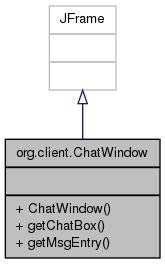
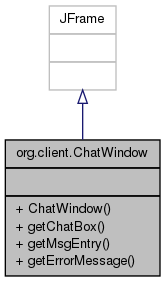
Automated documentation build for changeset e619a2696e7249c70485f421835836c3f858ba7f.

diff --git a/classorg_1_1client_1_1_message_receiver.html b/classorg_1_1client_1_1_message_receiver.html
@@ -122,20 +122,21 @@ Public Member Functions</h2></td></tr>
 <tr><td class="memItemLeft" align="right" valign="top">void&#160;</td><td class="memItemRight" valign="bottom"><a class="el" href="classorg_1_1client_1_1_message_receiver.html#ac5981757287e4f46c08ba8de8dce5e9e">stopRunning</a> ()</td></tr>
 <tr><td colspan="2"><h2><a name="pac-methods"></a>
 Package Functions</h2></td></tr>
-<tr><td class="memItemLeft" align="right" valign="top">&#160;</td><td class="memItemRight" valign="bottom"><a class="el" href="classorg_1_1client_1_1_message_receiver.html#a293bf969c45648c45354259c7284666a">MessageReceiver</a> (BufferedReader insock, JTextArea jTextArea)</td></tr>
+<tr><td class="memItemLeft" align="right" valign="top">&#160;</td><td class="memItemRight" valign="bottom"><a class="el" href="classorg_1_1client_1_1_message_receiver.html#aa25519514a1ef79e252de8473a895260">MessageReceiver</a> (BufferedReader insock, JTextArea jTextArea, JLabel jLabel)</td></tr>
 <tr><td colspan="2"><h2><a name="pac-attribs"></a>
 Package Attributes</h2></td></tr>
 <tr><td class="memItemLeft" align="right" valign="top">JTextArea&#160;</td><td class="memItemRight" valign="bottom"><a class="el" href="classorg_1_1client_1_1_message_receiver.html#ab7fa029bb1ee0d531f1e247d5e9ae4da">chatTxtField</a></td></tr>
+<tr><td class="memItemLeft" align="right" valign="top">JLabel&#160;</td><td class="memItemRight" valign="bottom"><a class="el" href="classorg_1_1client_1_1_message_receiver.html#af809bca35f4dbc3868bf69dc6f00c990">errLabel</a></td></tr>
 </table>
 <hr/><a name="details" id="details"></a><h2>Detailed Description</h2>
 <div class="textblock"><p>Provides logic to continuously receive messages from the server and provide notification to the user. Done in another thread as to not disrupt the user's experience. </p>
 </div><hr/><h2>Constructor &amp; Destructor Documentation</h2>
-<a class="anchor" id="a293bf969c45648c45354259c7284666a"></a><!-- doxytag: member="org::client::MessageReceiver::MessageReceiver" ref="a293bf969c45648c45354259c7284666a" args="(BufferedReader insock, JTextArea jTextArea)" -->
+<a class="anchor" id="aa25519514a1ef79e252de8473a895260"></a><!-- doxytag: member="org::client::MessageReceiver::MessageReceiver" ref="aa25519514a1ef79e252de8473a895260" args="(BufferedReader insock, JTextArea jTextArea, JLabel jLabel)" -->
 <div class="memitem">
 <div class="memproto">
       <table class="memname">
         <tr>
-          <td class="memname"><a class="el" href="classorg_1_1client_1_1_message_receiver.html#a293bf969c45648c45354259c7284666a">org.client.MessageReceiver.MessageReceiver</a> </td>
+          <td class="memname"><a class="el" href="classorg_1_1client_1_1_message_receiver.html#aa25519514a1ef79e252de8473a895260">org.client.MessageReceiver.MessageReceiver</a> </td>
           <td>(</td>
           <td class="paramtype">BufferedReader&#160;</td>
           <td class="paramname"><em>insock</em>, </td>
@@ -144,7 +145,13 @@ Package Attributes</h2></td></tr>
           <td class="paramkey"></td>
           <td></td>
           <td class="paramtype">JTextArea&#160;</td>
-          <td class="paramname"><em>jTextArea</em>&#160;</td>
+          <td class="paramname"><em>jTextArea</em>, </td>
+        </tr>
+        <tr>
+          <td class="paramkey"></td>
+          <td></td>
+          <td class="paramtype">JLabel&#160;</td>
+          <td class="paramname"><em>jLabel</em>&#160;</td>
         </tr>
         <tr>
           <td></td>
@@ -200,6 +207,19 @@ Package Attributes</h2></td></tr>
       <table class="memname">
         <tr>
           <td class="memname">JTextArea <a class="el" href="classorg_1_1client_1_1_message_receiver.html#ab7fa029bb1ee0d531f1e247d5e9ae4da">org.client.MessageReceiver.chatTxtField</a><code> [package]</code></td>
+        </tr>
+      </table>
+</div>
+<div class="memdoc">
+
+</div>
+</div>
+<a class="anchor" id="af809bca35f4dbc3868bf69dc6f00c990"></a><!-- doxytag: member="org::client::MessageReceiver::errLabel" ref="af809bca35f4dbc3868bf69dc6f00c990" args="" -->
+<div class="memitem">
+<div class="memproto">
+      <table class="memname">
+        <tr>
+          <td class="memname">JLabel <a class="el" href="classorg_1_1client_1_1_message_receiver.html#af809bca35f4dbc3868bf69dc6f00c990">org.client.MessageReceiver.errLabel</a><code> [package]</code></td>
         </tr>
       </table>
 </div>

diff --git a/classorg_1_1client_1_1_chat_window.html b/classorg_1_1client_1_1_chat_window.html
@@ -126,6 +126,7 @@ Public Member Functions</h2></td></tr>
 <tr><td class="memItemLeft" align="right" valign="top">&#160;</td><td class="memItemRight" valign="bottom"><a class="el" href="classorg_1_1client_1_1_chat_window.html#a3cef74248715caf594b231ba3e290358">ChatWindow</a> (final <a class="el" href="classorg_1_1client_1_1_client_app.html">ClientApp</a> clientApp)</td></tr>
 <tr><td class="memItemLeft" align="right" valign="top">JTextArea&#160;</td><td class="memItemRight" valign="bottom"><a class="el" href="classorg_1_1client_1_1_chat_window.html#ad0c14ed6f1bd7452c76981dc5f697590">getChatBox</a> ()</td></tr>
 <tr><td class="memItemLeft" align="right" valign="top">JTextField&#160;</td><td class="memItemRight" valign="bottom"><a class="el" href="classorg_1_1client_1_1_chat_window.html#a1d90251fb72141ff28fba0c8230048c9">getMsgEntry</a> ()</td></tr>
+<tr><td class="memItemLeft" align="right" valign="top">JLabel&#160;</td><td class="memItemRight" valign="bottom"><a class="el" href="classorg_1_1client_1_1_chat_window.html#a8887a6c39414e5b471864b3f02800a4b">getErrorMessage</a> ()</td></tr>
 </table>
 <hr/><h2>Constructor &amp; Destructor Documentation</h2>
 <a class="anchor" id="a3cef74248715caf594b231ba3e290358"></a><!-- doxytag: member="org::client::ChatWindow::ChatWindow" ref="a3cef74248715caf594b231ba3e290358" args="(final ClientApp clientApp)" -->
@@ -167,6 +168,24 @@ Public Member Functions</h2></td></tr>
 </div>
 <div class="memdoc">
 <p>Get reference to the chat window box.</p>
+<dl class="return"><dt><b>Returns:</b></dt><dd></dd></dl>
+
+</div>
+</div>
+<a class="anchor" id="a8887a6c39414e5b471864b3f02800a4b"></a><!-- doxytag: member="org::client::ChatWindow::getErrorMessage" ref="a8887a6c39414e5b471864b3f02800a4b" args="()" -->
+<div class="memitem">
+<div class="memproto">
+      <table class="memname">
+        <tr>
+          <td class="memname">JLabel <a class="el" href="classorg_1_1client_1_1_chat_window.html#a8887a6c39414e5b471864b3f02800a4b">org.client.ChatWindow.getErrorMessage</a> </td>
+          <td>(</td>
+          <td class="paramname"></td><td>)</td>
+          <td><code> [inline]</code></td>
+        </tr>
+      </table>
+</div>
+<div class="memdoc">
+<p>Get reference to the error message label.</p>
 <dl class="return"><dt><b>Returns:</b></dt><dd></dd></dl>
 
 </div>

diff --git a/search/search.js b/search/search.js
@@ -7,12 +7,12 @@
 
 var indexSectionsWithContent =
 {
-  0: "0000000000000000000000000000000000000000000000000000000000000000000000000000000000000000000000000101001110001101001111000000000000000000000000000000000000000000000000000000000000000000000000000000000000000000000000000000000000000000000000000000000000000000",
+  0: "0000000000000000000000000000000000000000000000000000000000000000000000000000000000000000000000000101011110001101001111000000000000000000000000000000000000000000000000000000000000000000000000000000000000000000000000000000000000000000000000000000000000000000",
   1: "0000000000000000000000000000000000000000000000000000000000000000000000000000000000000000000000000001000000001100000111000000000000000000000000000000000000000000000000000000000000000000000000000000000000000000000000000000000000000000000000000000000000000000",
   2: "0000000000000000000000000000000000000000000000000000000000000000000000000000000000000000000000000000000000000001000000000000000000000000000000000000000000000000000000000000000000000000000000000000000000000000000000000000000000000000000000000000000000000000",
   3: "0000000000000000000000000000000000000000000000000000000000000000000000000000000000000000000000000001000000001100000111000000000000000000000000000000000000000000000000000000000000000000000000000000000000000000000000000000000000000000000000000000000000000000",
   4: "0000000000000000000000000000000000000000000000000000000000000000000000000000000000000000000000000101000110001100001110000000000000000000000000000000000000000000000000000000000000000000000000000000000000000000000000000000000000000000000000000000000000000000",
-  5: "0000000000000000000000000000000000000000000000000000000000000000000000000000000000000000000000000001001000000000001100000000000000000000000000000000000000000000000000000000000000000000000000000000000000000000000000000000000000000000000000000000000000000000"
+  5: "0000000000000000000000000000000000000000000000000000000000000000000000000000000000000000000000000001011000000000001100000000000000000000000000000000000000000000000000000000000000000000000000000000000000000000000000000000000000000000000000000000000000000000"
 };
 
 var indexSectionNames =

diff --git a/classorg_1_1client_1_1_message_receiver-members.html b/classorg_1_1client_1_1_message_receiver-members.html
@@ -90,7 +90,8 @@ var searchBox = new SearchBox("searchBox", "search",false,'Search');
 <div class="contents">
 This is the complete list of members for <a class="el" href="classorg_1_1client_1_1_message_receiver.html">org.client.MessageReceiver</a>, including all inherited members.<table>
   <tr class="memlist"><td><a class="el" href="classorg_1_1client_1_1_message_receiver.html#ab7fa029bb1ee0d531f1e247d5e9ae4da">chatTxtField</a></td><td><a class="el" href="classorg_1_1client_1_1_message_receiver.html">org.client.MessageReceiver</a></td><td><code> [package]</code></td></tr>
-  <tr class="memlist"><td><a class="el" href="classorg_1_1client_1_1_message_receiver.html#a293bf969c45648c45354259c7284666a">MessageReceiver</a>(BufferedReader insock, JTextArea jTextArea)</td><td><a class="el" href="classorg_1_1client_1_1_message_receiver.html">org.client.MessageReceiver</a></td><td><code> [inline, package]</code></td></tr>
+  <tr class="memlist"><td><a class="el" href="classorg_1_1client_1_1_message_receiver.html#af809bca35f4dbc3868bf69dc6f00c990">errLabel</a></td><td><a class="el" href="classorg_1_1client_1_1_message_receiver.html">org.client.MessageReceiver</a></td><td><code> [package]</code></td></tr>
+  <tr class="memlist"><td><a class="el" href="classorg_1_1client_1_1_message_receiver.html#aa25519514a1ef79e252de8473a895260">MessageReceiver</a>(BufferedReader insock, JTextArea jTextArea, JLabel jLabel)</td><td><a class="el" href="classorg_1_1client_1_1_message_receiver.html">org.client.MessageReceiver</a></td><td><code> [inline, package]</code></td></tr>
   <tr class="memlist"><td><a class="el" href="classorg_1_1client_1_1_message_receiver.html#a55316106b6dbc2bcda190bffa622b27e">run</a>()</td><td><a class="el" href="classorg_1_1client_1_1_message_receiver.html">org.client.MessageReceiver</a></td><td><code> [inline]</code></td></tr>
   <tr class="memlist"><td><a class="el" href="classorg_1_1client_1_1_message_receiver.html#ac5981757287e4f46c08ba8de8dce5e9e">stopRunning</a>()</td><td><a class="el" href="classorg_1_1client_1_1_message_receiver.html">org.client.MessageReceiver</a></td><td><code> [inline]</code></td></tr>
 </table></div><!-- contents -->

diff --git a/functions.html b/functions.html
@@ -86,6 +86,7 @@ var searchBox = new SearchBox("searchBox", "search",false,'Search');
     <ul class="tablist">
       <li><a href="#index_a"><span>a</span></a></li>
       <li><a href="#index_c"><span>c</span></a></li>
+      <li><a href="#index_e"><span>e</span></a></li>
       <li><a href="#index_f"><span>f</span></a></li>
       <li><a href="#index_g"><span>g</span></a></li>
       <li><a href="#index_h"><span>h</span></a></li>
@@ -126,6 +127,13 @@ var searchBox = new SearchBox("searchBox", "search",false,'Search');
 </ul>
 
 
+<h3><a class="anchor" id="index_e"></a>- e -</h3><ul>
+<li>errLabel
+: <a class="el" href="classorg_1_1client_1_1_message_receiver.html#af809bca35f4dbc3868bf69dc6f00c990">org.client.MessageReceiver</a>
+</li>
+</ul>
+
+
 <h3><a class="anchor" id="index_f"></a>- f -</h3><ul>
 <li>FAIL_INTERNAL
 : <a class="el" href="classorg_1_1common_1_1_utils.html#a7d2ada351134eda025b6c506cc738410">org.common.Utils</a>
@@ -151,6 +159,9 @@ var searchBox = new SearchBox("searchBox", "search",false,'Search');
 </li>
 <li>getContact()
 : <a class="el" href="classorg_1_1server_1_1_contacts.html#a9b412016c6ffbb60995b6498fff89de4">org.server.Contacts</a>
+</li>
+<li>getErrorMessage()
+: <a class="el" href="classorg_1_1client_1_1_chat_window.html#a8887a6c39414e5b471864b3f02800a4b">org.client.ChatWindow</a>
 </li>
 <li>getInstance()
 : <a class="el" href="classorg_1_1server_1_1_contacts.html#a6767632665a32a7ae568b4dedbd0f2d1">org.server.Contacts</a>
@@ -193,7 +204,7 @@ var searchBox = new SearchBox("searchBox", "search",false,'Search');
 , <a class="el" href="classorg_1_1client_1_1_client_app.html#a2e36128879f05a907233e30c848b1200">org.client.ClientApp</a>
 </li>
 <li>MessageReceiver()
-: <a class="el" href="classorg_1_1client_1_1_message_receiver.html#a293bf969c45648c45354259c7284666a">org.client.MessageReceiver</a>
+: <a class="el" href="classorg_1_1client_1_1_message_receiver.html#aa25519514a1ef79e252de8473a895260">org.client.MessageReceiver</a>
 </li>
 </ul>
 

diff --git a/classorg_1_1client_1_1_chat_window-members.html b/classorg_1_1client_1_1_chat_window-members.html
@@ -91,6 +91,7 @@ var searchBox = new SearchBox("searchBox", "search",false,'Search');
 This is the complete list of members for <a class="el" href="classorg_1_1client_1_1_chat_window.html">org.client.ChatWindow</a>, including all inherited members.<table>
   <tr class="memlist"><td><a class="el" href="classorg_1_1client_1_1_chat_window.html#a3cef74248715caf594b231ba3e290358">ChatWindow</a>(final ClientApp clientApp)</td><td><a class="el" href="classorg_1_1client_1_1_chat_window.html">org.client.ChatWindow</a></td><td><code> [inline]</code></td></tr>
   <tr class="memlist"><td><a class="el" href="classorg_1_1client_1_1_chat_window.html#ad0c14ed6f1bd7452c76981dc5f697590">getChatBox</a>()</td><td><a class="el" href="classorg_1_1client_1_1_chat_window.html">org.client.ChatWindow</a></td><td><code> [inline]</code></td></tr>
+  <tr class="memlist"><td><a class="el" href="classorg_1_1client_1_1_chat_window.html#a8887a6c39414e5b471864b3f02800a4b">getErrorMessage</a>()</td><td><a class="el" href="classorg_1_1client_1_1_chat_window.html">org.client.ChatWindow</a></td><td><code> [inline]</code></td></tr>
   <tr class="memlist"><td><a class="el" href="classorg_1_1client_1_1_chat_window.html#a1d90251fb72141ff28fba0c8230048c9">getMsgEntry</a>()</td><td><a class="el" href="classorg_1_1client_1_1_chat_window.html">org.client.ChatWindow</a></td><td><code> [inline]</code></td></tr>
 </table></div><!-- contents -->
 <!-- window showing the filter options -->

diff --git a/functions_func.html b/functions_func.html
@@ -129,6 +129,9 @@ var searchBox = new SearchBox("searchBox", "search",false,'Search');
 <li>getContact()
 : <a class="el" href="classorg_1_1server_1_1_contacts.html#a9b412016c6ffbb60995b6498fff89de4">org.server.Contacts</a>
 </li>
+<li>getErrorMessage()
+: <a class="el" href="classorg_1_1client_1_1_chat_window.html#a8887a6c39414e5b471864b3f02800a4b">org.client.ChatWindow</a>
+</li>
 <li>getInstance()
 : <a class="el" href="classorg_1_1server_1_1_contacts.html#a6767632665a32a7ae568b4dedbd0f2d1">org.server.Contacts</a>
 </li>
@@ -170,7 +173,7 @@ var searchBox = new SearchBox("searchBox", "search",false,'Search');
 , <a class="el" href="classorg_1_1client_1_1_client_app.html#a2e36128879f05a907233e30c848b1200">org.client.ClientApp</a>
 </li>
 <li>MessageReceiver()
-: <a class="el" href="classorg_1_1client_1_1_message_receiver.html#a293bf969c45648c45354259c7284666a">org.client.MessageReceiver</a>
+: <a class="el" href="classorg_1_1client_1_1_message_receiver.html#aa25519514a1ef79e252de8473a895260">org.client.MessageReceiver</a>
 </li>
 </ul>
 

diff --git a/search/all_67.js b/search/all_67.js
@@ -3,6 +3,7 @@ var searchData=
   ['get42',['get42',['../classorg_1_1common_1_1_utils.html#a88f15ad86bb80edbf923176873053060',1,'org::common::Utils']]],
   ['getchatbox',['getChatBox',['../classorg_1_1client_1_1_chat_window.html#ad0c14ed6f1bd7452c76981dc5f697590',1,'org::client::ChatWindow']]],
   ['getcontact',['getContact',['../classorg_1_1server_1_1_contacts.html#a9b412016c6ffbb60995b6498fff89de4',1,'org::server::Contacts']]],
+  ['geterrormessage',['getErrorMessage',['../classorg_1_1client_1_1_chat_window.html#a8887a6c39414e5b471864b3f02800a4b',1,'org::client::ChatWindow']]],
   ['getinstance',['getInstance',['../classorg_1_1server_1_1_contacts.html#a6767632665a32a7ae568b4dedbd0f2d1',1,'org::server::Contacts']]],
   ['getmsgentry',['getMsgEntry',['../classorg_1_1client_1_1_chat_window.html#a1d90251fb72141ff28fba0c8230048c9',1,'org::client::ChatWindow']]],
   ['gettxtusername',['getTxtUsername',['../classorg_1_1client_1_1_login_window.html#a99382b9ccb2616123e4f96fd038b309e',1,'org::client::LoginWindow']]],

diff --git a/search/functions_67.js b/search/functions_67.js
@@ -3,6 +3,7 @@ var searchData=
   ['get42',['get42',['../classorg_1_1common_1_1_utils.html#a88f15ad86bb80edbf923176873053060',1,'org::common::Utils']]],
   ['getchatbox',['getChatBox',['../classorg_1_1client_1_1_chat_window.html#ad0c14ed6f1bd7452c76981dc5f697590',1,'org::client::ChatWindow']]],
   ['getcontact',['getContact',['../classorg_1_1server_1_1_contacts.html#a9b412016c6ffbb60995b6498fff89de4',1,'org::server::Contacts']]],
+  ['geterrormessage',['getErrorMessage',['../classorg_1_1client_1_1_chat_window.html#a8887a6c39414e5b471864b3f02800a4b',1,'org::client::ChatWindow']]],
   ['getinstance',['getInstance',['../classorg_1_1server_1_1_contacts.html#a6767632665a32a7ae568b4dedbd0f2d1',1,'org::server::Contacts']]],
   ['getmsgentry',['getMsgEntry',['../classorg_1_1client_1_1_chat_window.html#a1d90251fb72141ff28fba0c8230048c9',1,'org::client::ChatWindow']]],
   ['gettxtusername',['getTxtUsername',['../classorg_1_1client_1_1_login_window.html#a99382b9ccb2616123e4f96fd038b309e',1,'org::client::LoginWindow']]],

diff --git a/search/variables_65.html b/search/variables_65.html
@@ -1,0 +1,25 @@
+<!DOCTYPE html PUBLIC "-//W3C//DTD XHTML 1.0 Transitional//EN" "http://www.w3.org/TR/xhtml1/DTD/xhtml1-transitional.dtd">
+<html><head><title></title>
+<meta http-equiv="Content-Type" content="text/xhtml;charset=UTF-8"/>
+<link rel="stylesheet" type="text/css" href="search.css"/>
+<script type="text/javascript" src="variables_65.js"></script>
+<script type="text/javascript" src="search.js"></script>
+</head>
+<body class="SRPage">
+<div id="SRIndex">
+<div class="SRStatus" id="Loading">Loading...</div>
+<div id="SRResults"></div>
+<script type="text/javascript"><!--
+createResults();
+--></script>
+<div class="SRStatus" id="Searching">Searching...</div>
+<div class="SRStatus" id="NoMatches">No Matches</div>
+<script type="text/javascript"><!--
+document.getElementById("Loading").style.display="none";
+document.getElementById("NoMatches").style.display="none";
+var searchResults = new SearchResults("searchResults");
+searchResults.Search();
+--></script>
+</div>
+</body>
+</html>

diff --git a/search/all_65.html b/search/all_65.html
@@ -1,0 +1,25 @@
+<!DOCTYPE html PUBLIC "-//W3C//DTD XHTML 1.0 Transitional//EN" "http://www.w3.org/TR/xhtml1/DTD/xhtml1-transitional.dtd">
+<html><head><title></title>
+<meta http-equiv="Content-Type" content="text/xhtml;charset=UTF-8"/>
+<link rel="stylesheet" type="text/css" href="search.css"/>
+<script type="text/javascript" src="all_65.js"></script>
+<script type="text/javascript" src="search.js"></script>
+</head>
+<body class="SRPage">
+<div id="SRIndex">
+<div class="SRStatus" id="Loading">Loading...</div>
+<div id="SRResults"></div>
+<script type="text/javascript"><!--
+createResults();
+--></script>
+<div class="SRStatus" id="Searching">Searching...</div>
+<div class="SRStatus" id="NoMatches">No Matches</div>
+<script type="text/javascript"><!--
+document.getElementById("Loading").style.display="none";
+document.getElementById("NoMatches").style.display="none";
+var searchResults = new SearchResults("searchResults");
+searchResults.Search();
+--></script>
+</div>
+</body>
+</html>

diff --git a/search/all_6d.js b/search/all_6d.js
@@ -1,7 +1,7 @@
 var searchData=
 [
   ['main',['main',['../classorg_1_1server_1_1_server_app.html#ac7d6b1d4446a40414637471deff4ef8f',1,'org::server::ServerApp.main()'],['../classorg_1_1client_1_1_client_app.html#a2e36128879f05a907233e30c848b1200',1,'org::client::ClientApp.main()']]],
-  ['messagereceiver',['MessageReceiver',['../classorg_1_1client_1_1_message_receiver.html#a293bf969c45648c45354259c7284666a',1,'org::client::MessageReceiver']]],
+  ['messagereceiver',['MessageReceiver',['../classorg_1_1client_1_1_message_receiver.html#aa25519514a1ef79e252de8473a895260',1,'org::client::MessageReceiver']]],
   ['messagereceiver',['MessageReceiver',['../classorg_1_1client_1_1_message_receiver.html',1,'org::client']]],
   ['messagereceiver_2ejava',['MessageReceiver.java',['../_message_receiver_8java.html',1,'']]]
 ];
